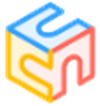
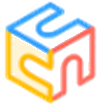
✨ feat: 水印魔方内孔全透明化并重塑登录页为整张画绘本卡片

diff --git a/client/components/Login.tsx b/client/components/Login.tsx
@@ -8,53 +8,40 @@ interface Props {
   onLogin: (e: React.FormEvent) => void;
 }
 
-// 玩家登录与免密自动激活组件 (NCU HOME 极简现代主义，纯净留白设计)
+// 玩家登录与免密自动激活组件 (整张画全画幅沉浸绘本卡片，轻奢毛玻璃浮岛设计)
 export default function Login({ form, error, setForm, onLogin }: Props) {
   return (
-    <div className="w-full max-w-[360px] md:max-w-2xl bg-white/80 backdrop-blur-md rounded-3xl border border-white/70 shadow-2xl shadow-slate-900/10 select-none text-[#0F172A] transition-all overflow-hidden flex flex-col md:flex-row">
-      {/* 左侧故事展画 (桌面端手绘绘本封面，移动端顶部高光画幅) */}
-      <div className="relative md:w-5/12 h-36 md:h-auto min-h-[160px] bg-slate-100 overflow-hidden flex flex-col justify-end p-5 text-white">
-        <div
-          className="absolute inset-0 bg-cover bg-center transition-transform duration-700 hover:scale-105"
-          style={{ backgroundImage: "url('/image/Gemini_Generated_Image_qplo2tqplo2tqplo.jpg')" }}
-        />
-        <div className="absolute inset-0 bg-gradient-to-t md:bg-gradient-to-r from-slate-950/75 via-slate-900/30 to-transparent" />
-        <div className="relative z-10">
-          <div className="flex items-center gap-1.5 mb-1.5 opacity-90">
-            <span className="w-1.5 h-1.5 rounded-full bg-[#66CCFF]" />
-            <span className="w-1.5 h-1.5 rounded-full bg-[#F59E0B]" />
-            <span className="w-1.5 h-1.5 rounded-full bg-[#10B981]" />
-            <span className="w-1.5 h-1.5 rounded-full bg-[#EC4899]" />
-            <span className="text-[10px] font-mono tracking-widest text-sky-200 uppercase ml-1">NCU HOME</span>
-          </div>
-          <h2 className="text-lg md:text-xl font-black drop-shadow tracking-tight">贪吃蛇</h2>
-          <p className="text-xs text-white/80 font-normal drop-shadow">方寸之间 · 重温经典竞技</p>
-        </div>
-      </div>
+    <div className="w-full max-w-[400px] sm:max-w-[440px] rounded-3xl overflow-hidden border border-white/80 shadow-2xl shadow-indigo-950/20 relative select-none text-[#0F172A] transition-all group">
+      {/* 1. 整张画全画幅艺术底图 (完整呈现手绘绘本画卷) */}
+      <div
+        className="absolute inset-0 bg-cover bg-center transition-transform duration-1000 group-hover:scale-105"
+        style={{ backgroundImage: "url('/image/Gemini_Generated_Image_qplo2tqplo2tqplo.jpg')" }}
+      />
+      {/* 2. 柔和艺术氛围层 (烘托整幅画作光影细节，同时强化文字可读性) */}
+      <div className="absolute inset-0 bg-gradient-to-b from-slate-950/45 via-slate-900/25 to-slate-950/65" />
 
-      {/* 右侧表单操作区 */}
-      <div className="p-6 sm:p-8 flex-1 flex flex-col justify-center">
-        <div className="hidden md:flex items-center gap-2 mb-4">
-          <div className="w-8 h-8 rounded-xl bg-[#EBF8FF] border border-[#66CCFF]/35 flex items-center justify-center">
+      {/* 3. 悬浮轻奢毛玻璃内容操作区 */}
+      <div className="relative z-10 p-5 sm:p-7 flex flex-col">
+        {/* 顶部：官方品牌水印徽标与游戏副标 */}
+        <div className="flex flex-col items-center justify-center mb-4 text-center">
+          <div className="bg-white/80 backdrop-blur-md px-3.5 py-1.5 rounded-full border border-white/80 shadow-xs mb-2 flex items-center justify-center">
             <Image
-              src="/icon.svg"
-              alt="贪吃蛇图标"
-              width={22}
-              height={22}
-              className="rounded-lg"
+              src="/ncuhome_logo.png"
+              alt="NCUHOME 官方徽标"
+              width={160}
+              height={40}
+              className="h-6 w-auto object-contain"
               priority
             />
           </div>
-          <div>
-            <h3 className="text-sm font-bold text-slate-800">玩家登录</h3>
-            <p className="text-[11px] text-slate-400">输入昵称即刻加入风云榜</p>
-          </div>
+          <h2 className="text-xl sm:text-2xl font-black text-white drop-shadow-md tracking-tight">贪吃蛇</h2>
+          <p className="text-xs text-sky-100/90 font-normal drop-shadow">方寸之间 · 重温经典竞技</p>
         </div>
 
-        {/* 登录与快捷自动激活表单 */}
-        <form onSubmit={onLogin} className="flex flex-col gap-3.5">
+        {/* 登录与快捷自动激活毛玻璃表单浮岛 */}
+        <form onSubmit={onLogin} className="bg-white/80 backdrop-blur-xl border border-white/85 rounded-2xl p-4 sm:p-5 shadow-sm flex flex-col gap-3">
           <div>
-            <label className="block text-[11px] font-medium text-slate-500 mb-1 pl-0.5">
+            <label className="block text-[11px] font-bold text-slate-600 mb-1 pl-0.5">
               用户名
             </label>
             <input
@@ -62,14 +49,14 @@ export default function Login({ form, error, setForm, onLogin }: Props) {
               placeholder="输入玩家用户名或昵称"
               value={form.username}
               onChange={(e) => setForm({ ...form, username: e.target.value })}
-              className="w-full bg-[#F8FAFC] border border-slate-200/80 rounded-2xl px-4 py-2.5 text-sm text-[#0F172A] placeholder-slate-400 outline-none transition-all focus:bg-white focus:border-[#0099FF] focus:ring-4 focus:ring-[#66CCFF]/15"
+              className="w-full bg-white/85 border border-slate-200/80 rounded-2xl px-4 py-2.5 text-sm text-[#0F172A] placeholder-slate-400 outline-none transition-all focus:bg-white focus:border-[#0099FF] focus:ring-4 focus:ring-[#66CCFF]/20"
               required
               autoComplete="username"
             />
           </div>
 
           <div>
-            <label className="block text-[11px] font-medium text-slate-500 mb-1 pl-0.5">
+            <label className="block text-[11px] font-bold text-slate-600 mb-1 pl-0.5">
               密码
             </label>
             <input
@@ -77,7 +64,7 @@ export default function Login({ form, error, setForm, onLogin }: Props) {
               placeholder="输入密码"
               value={form.password}
               onChange={(e) => setForm({ ...form, password: e.target.value })}
-              className="w-full bg-[#F8FAFC] border border-slate-200/80 rounded-2xl px-4 py-2.5 text-sm text-[#0F172A] placeholder-slate-400 outline-none transition-all focus:bg-white focus:border-[#0099FF] focus:ring-4 focus:ring-[#66CCFF]/15"
+              className="w-full bg-white/85 border border-slate-200/80 rounded-2xl px-4 py-2.5 text-sm text-[#0F172A] placeholder-slate-400 outline-none transition-all focus:bg-white focus:border-[#0099FF] focus:ring-4 focus:ring-[#66CCFF]/20"
               required
               autoComplete="current-password"
             />
@@ -85,7 +72,7 @@ export default function Login({ form, error, setForm, onLogin }: Props) {
 
           {/* 错误提示条 */}
           {error && (
-            <div className="text-xs text-rose-600 bg-rose-50 border border-rose-100/80 py-2 px-3 rounded-xl text-center font-medium">
+            <div className="text-xs text-rose-600 bg-rose-50/90 border border-rose-100/80 py-2 px-3 rounded-xl text-center font-medium">
               {error}
             </div>
           )}
@@ -93,15 +80,15 @@ export default function Login({ form, error, setForm, onLogin }: Props) {
           {/* NCU HOME 深天蓝主交互按钮 */}
           <button
             type="submit"
-            className="w-full mt-1.5 py-2.5 bg-[#0099FF] hover:bg-[#0088EE] active:scale-[0.98] text-white font-bold text-sm rounded-2xl transition-all cursor-pointer shadow-xs flex items-center justify-center"
+            className="w-full mt-1 py-2.5 bg-[#0099FF] hover:bg-[#0088EE] active:scale-[0.98] text-white font-bold text-sm rounded-2xl transition-all cursor-pointer shadow-xs flex items-center justify-center"
           >
             开始游戏
           </button>
 
-          {/* 底部无感自动入库轻提示与 NCU HOME 水印 */}
-          <div className="flex items-center justify-between text-[11px] text-slate-400 mt-2 px-1">
+          {/* 底部无感自动入库轻提示与 NCU HOME 官方字标 */}
+          <div className="flex items-center justify-between text-[11px] text-slate-500 mt-1 px-1">
             <span>首次登录自动注册激活</span>
-            <span className="font-mono text-[10px] text-slate-300">NCU HOME</span>
+            <span className="font-mono text-[10px] text-slate-400">NCU HOME</span>
           </div>
         </form>
       </div>

diff --git a/client/app/page.tsx b/client/app/page.tsx
@@ -600,8 +600,8 @@ export default function Home() {
               </p>
             </div>
 
-            {/* 南大家园官方品牌全套徽标水印 (全端自适应可见) */}
-            <div className="flex items-center select-none pointer-events-none opacity-90 hover:opacity-100 transition-opacity shrink-0 pl-1">
+            {/* 南大家园官方品牌徽标水印 (内部孔洞纯净透底，全端自适应可见) */}
+            <div className="flex items-center select-none pointer-events-none shrink-0 pl-1">
               <Image
                 src="/ncuhome_logo.png"
                 alt="NCUHOME"
